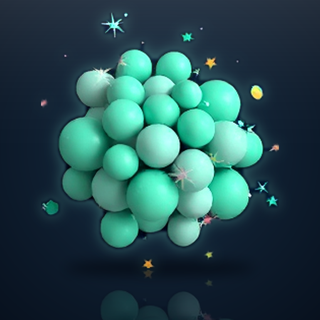
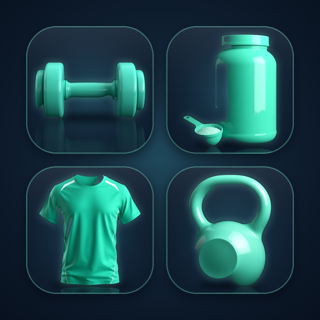
feat: icono Todo como mosaico 2x2 de categorías; Mensajes compacta historias y pestañas

diff --git a/apps/mobile/app/(app)/(tabs)/comunidad-mensajes.tsx b/apps/mobile/app/(app)/(tabs)/comunidad-mensajes.tsx
@@ -550,14 +550,17 @@ export default function ComunidadMensajesScreen() {
       <ScreenHeader title="Mensajes" />
 
 
-      <StoriesBar />
+      {/* Historias y pestañas forman un bloque: entre ellas un respiro corto, no el hueco de sección. */}
+      <View style={{ gap: spacing.sm }}>
+        <StoriesBar />
 
-      <TextTabs
-        badges={{ solicitudes: receivedCount }}
-        onChange={setTab}
-        tabs={TABS.map((item) => ({ value: item.value, label: item.label }))}
-        value={tab}
-      />
+        <TextTabs
+          badges={{ solicitudes: receivedCount }}
+          onChange={setTab}
+          tabs={TABS.map((item) => ({ value: item.value, label: item.label }))}
+          value={tab}
+        />
+      </View>
 
       {tab === 'general' ? <GeneralTab /> : tab === 'solicitudes' ? <SolicitudesTab /> : <ConexionesTab />}
     </ScrollScreen>
